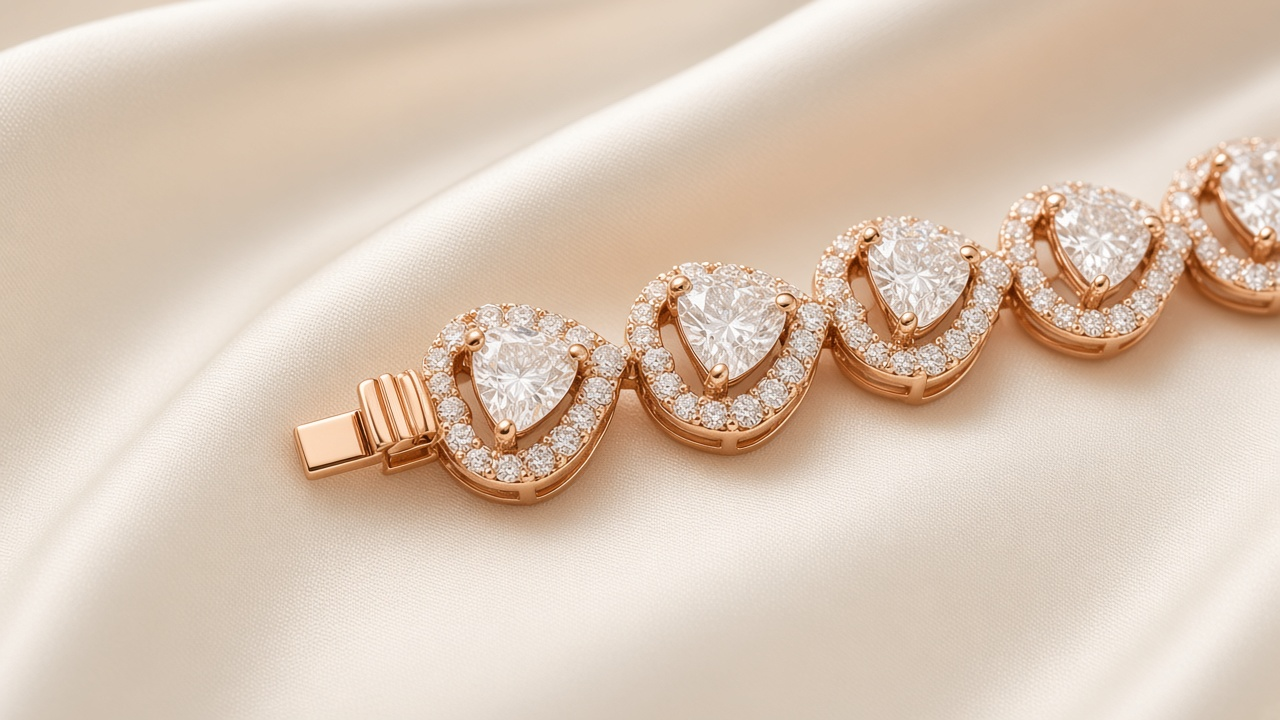
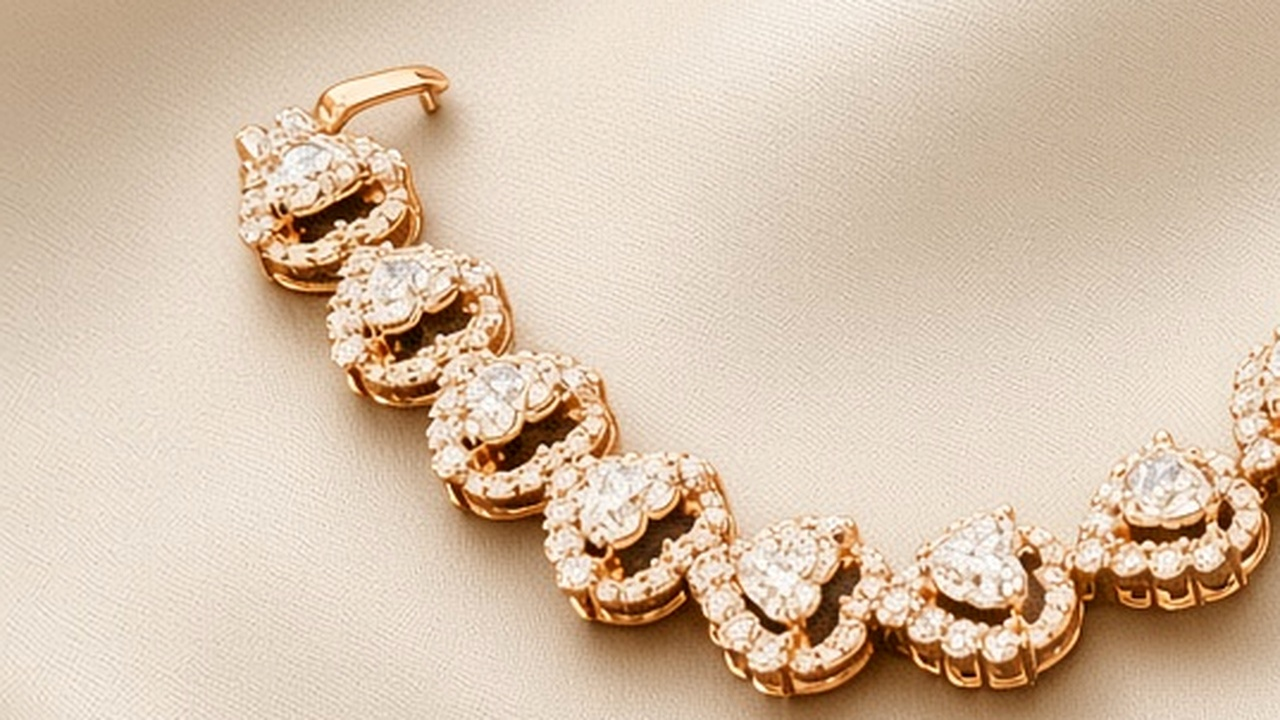
Drop duplicate Layout shots; fix heart-link Face and Clasp from Full zoom.

diff --git a/src/data/catalog.ts b/src/data/catalog.ts
@@ -115,17 +115,12 @@ export const catalogPieces: CatalogPiece[] = [
     image: 'images/products/pear-tennis/cover.jpg',
     alt: 'Yellow gold alternating pear-cut diamond tennis bracelet on ivory silk',
     blurb:
-      'Alternating pear-cut diamonds in yellow gold — tip up / tip down the full length. Full, layout, face, and clasp views.',
+      'Alternating pear-cut diamonds in yellow gold — tip up / tip down the full length. Full, face, and clasp views.',
     shots: [
       {
         src: 'images/products/pear-tennis/cover.jpg',
         alt: 'Full alternating pear tennis bracelet with clean clasps',
         label: 'Full',
-      },
-      {
-        src: 'images/products/pear-tennis/layout.jpg',
-        alt: 'Layout of alternating pear tennis bracelet on ivory silk',
-        label: 'Layout',
       },
       {
         src: 'images/products/pear-tennis/face.jpg',
@@ -145,7 +140,7 @@ export const catalogPieces: CatalogPiece[] = [
     line: 'bracelets',
     image: 'images/products/heart-link/cover.jpg',
     alt: 'Rose gold heart-link diamond bracelet with pavé halos on ivory silk',
-    blurb: '14K rose gold heart links with center heart diamonds and pavé halos. Full, layout, face, and clasp views.',
+    blurb: '14K rose gold heart links with center heart diamonds and pavé halos. Full, face, and clasp views.',
     shots: [
       {
         src: 'images/products/heart-link/cover.jpg',
@@ -153,18 +148,13 @@ export const catalogPieces: CatalogPiece[] = [
         label: 'Full',
       },
       {
-        src: 'images/products/heart-link/layout.jpg',
-        alt: 'Rose gold heart-link bracelet layout on cream silk',
-        label: 'Layout',
-      },
-      {
         src: 'images/products/heart-link/face.jpg',
-        alt: 'Close-up of rose gold heart links with pavé halos',
+        alt: 'Zoomed face of tip-to-cleft rose gold heart links on cream silk',
         label: 'Face',
       },
       {
         src: 'images/products/heart-link/clasp.jpg',
-        alt: 'Rose gold tongue-and-groove clasp on heart-link bracelet',
+        alt: 'Clasp end with sharp heart-shaped links on rose gold bracelet',
         label: 'Clasp',
       },
     ],
@@ -176,17 +166,12 @@ export const catalogPieces: CatalogPiece[] = [
     image: 'images/products/multi-shape/cover.jpg',
     alt: '14K white gold multi-shape diamond tennis bracelet — heart, emerald, oval, marquise, pear — on cream silk',
     blurb:
-      '14K white gold mosaic tennis — repeating Heart → Emerald → Oval → Marquise → Pear. Full, layout, face, and clasp views.',
+      '14K white gold mosaic tennis — repeating Heart → Emerald → Oval → Marquise → Pear. Full, face, and clasp views.',
     shots: [
       {
-        src: 'images/products/multi-shape/full.jpg',
+        src: 'images/products/multi-shape/cover.jpg',
         alt: 'Full multi-shape diamond tennis bracelet — Heart Emerald Oval Marquise Pear repeat',
         label: 'Full',
-      },
-      {
-        src: 'images/products/multi-shape/layout.jpg',
-        alt: 'Layout of multi-shape tennis bracelet showing heart emerald oval marquise pear sequence',
-        label: 'Layout',
       },
       {
         src: 'images/products/multi-shape/face.jpg',
